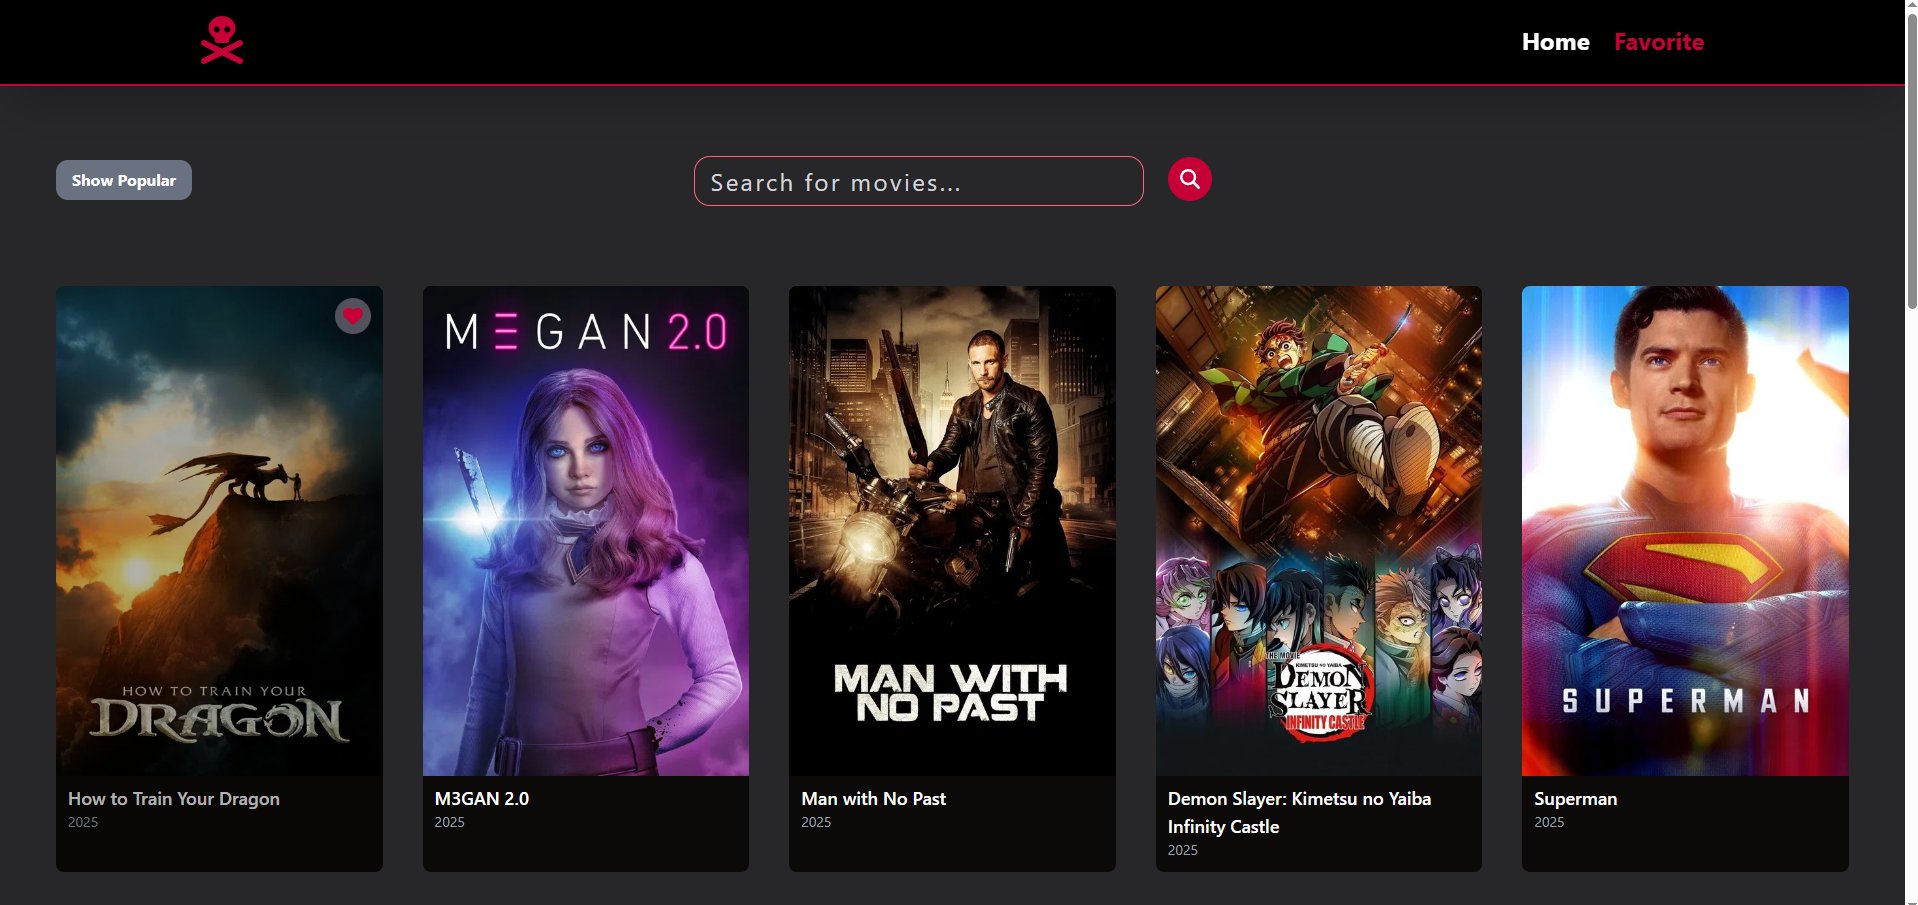
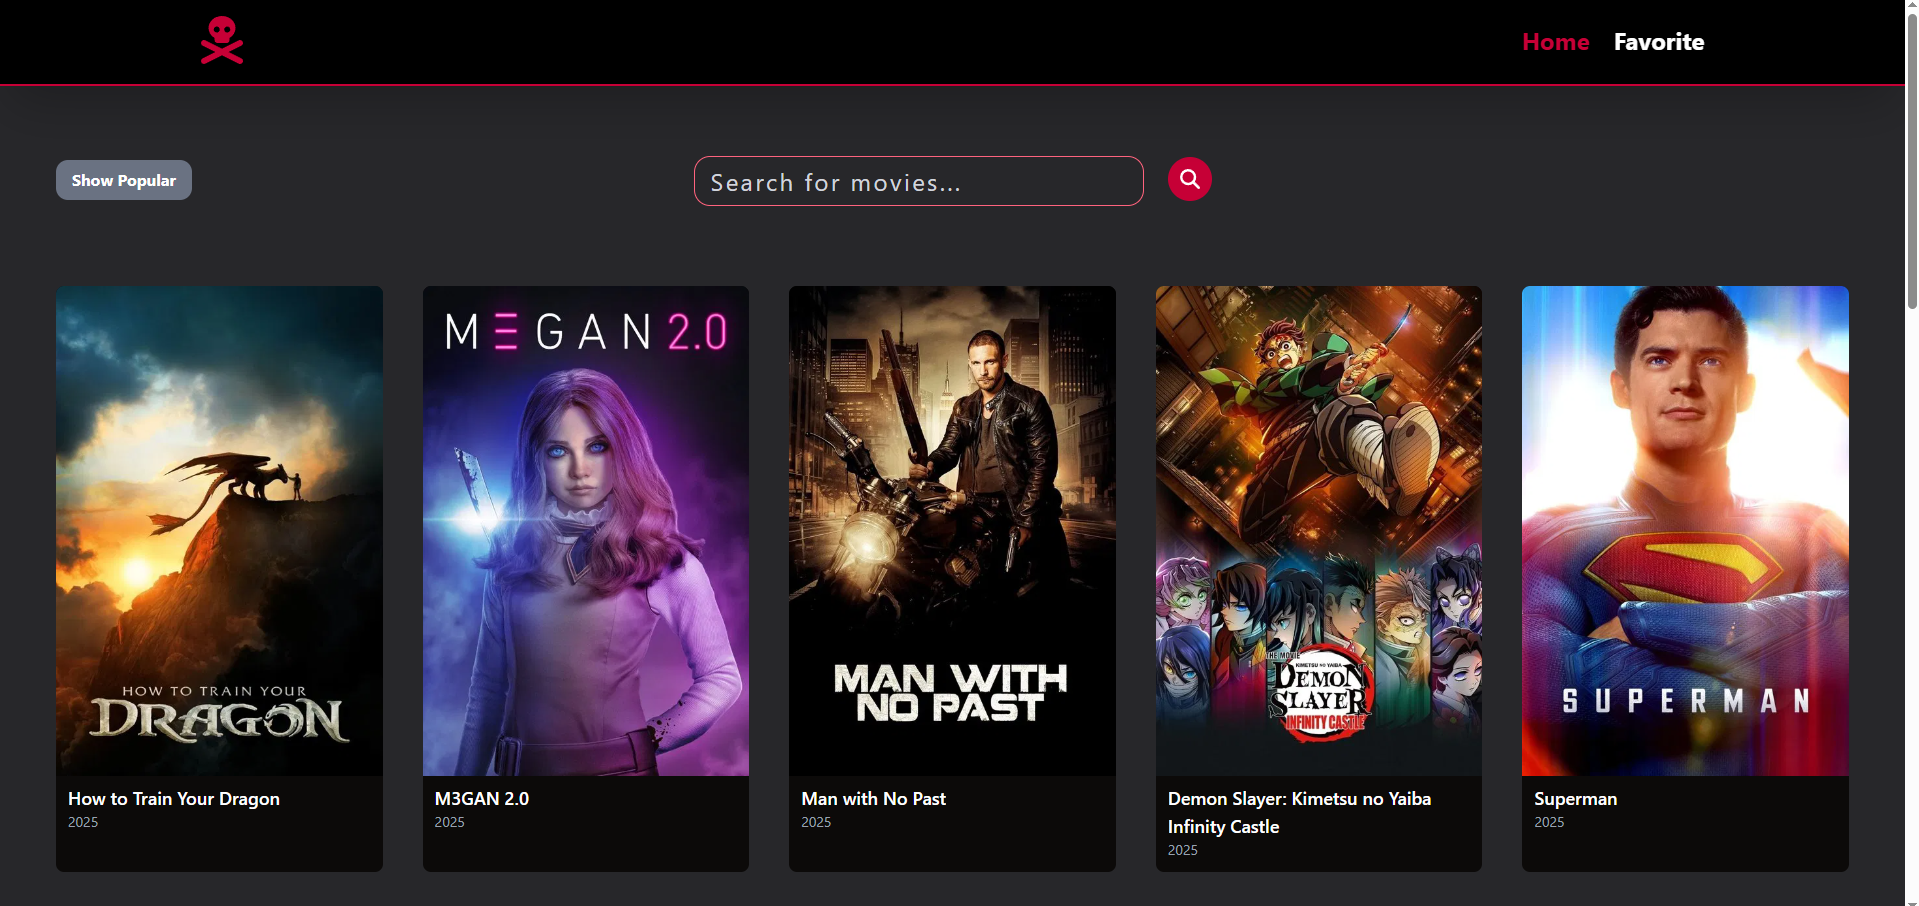
Updated screenshots

diff --git a/Project 2 - Favorite Movies/favorite-movies-web/src/components/Navbar.jsx b/Project 2 - Favorite Movies/favorite-movies-web/src/components/Navbar.jsx
@@ -6,12 +6,12 @@ import { faSkullCrossbones } from '@fortawesome/free-solid-svg-icons';
 const Navbar = () => {
   const location = useLocation();
   return (
-    <nav className='fixed top-0 left-0 right-0 bg-black text-rose-700 text-xl sm:text-2xl font-bold py-5 border-b-2 shadow-2xl z-50'>
+    <nav className='fixed top-0 left-0 right-0 bg-black text-white text-xl sm:text-2xl font-bold py-5 border-b-2 border-rose-700 shadow-2xl z-50'>
       <div className='max-w-screen-2xl mx-auto px-4 flex justify-between items-center'>
-        <Link to="/"><FontAwesomeIcon icon={faSkullCrossbones} className="text-3xl sm:text-5xl hover:text-white active:scale-95 transition-all duration-200" /></Link>
+        <Link to="/"><FontAwesomeIcon icon={faSkullCrossbones} className="text-3xl sm:text-5xl text-rose-700 hover:text-white active:scale-95 transition-all duration-200" /></Link>
         <ul className='flex flex-row gap-6'>
-          <li className={`${location.pathname === '/' ? 'text-white' : ''} hover:text-white active:scale-95 transition-all duration-200`}><Link to="/">Home</Link></li>
-          <li className={`${location.pathname === '/favorites' ? 'text-white' : ''} hover:text-white active:scale-95 transition-all duration-200`}><Link to="/favorites">Favorite</Link></li>
+          <li className={`${location.pathname === '/' ? 'text-rose-700' : ''}  active:scale-95 transition-all duration-200`}><Link to="/">Home</Link></li>
+          <li className={`${location.pathname === '/favorites' ? 'text-rose-700' : ''} active:scale-95 transition-all duration-200`}><Link to="/favorites">Favorite</Link></li>
         </ul>
       </div>
     </nav>
